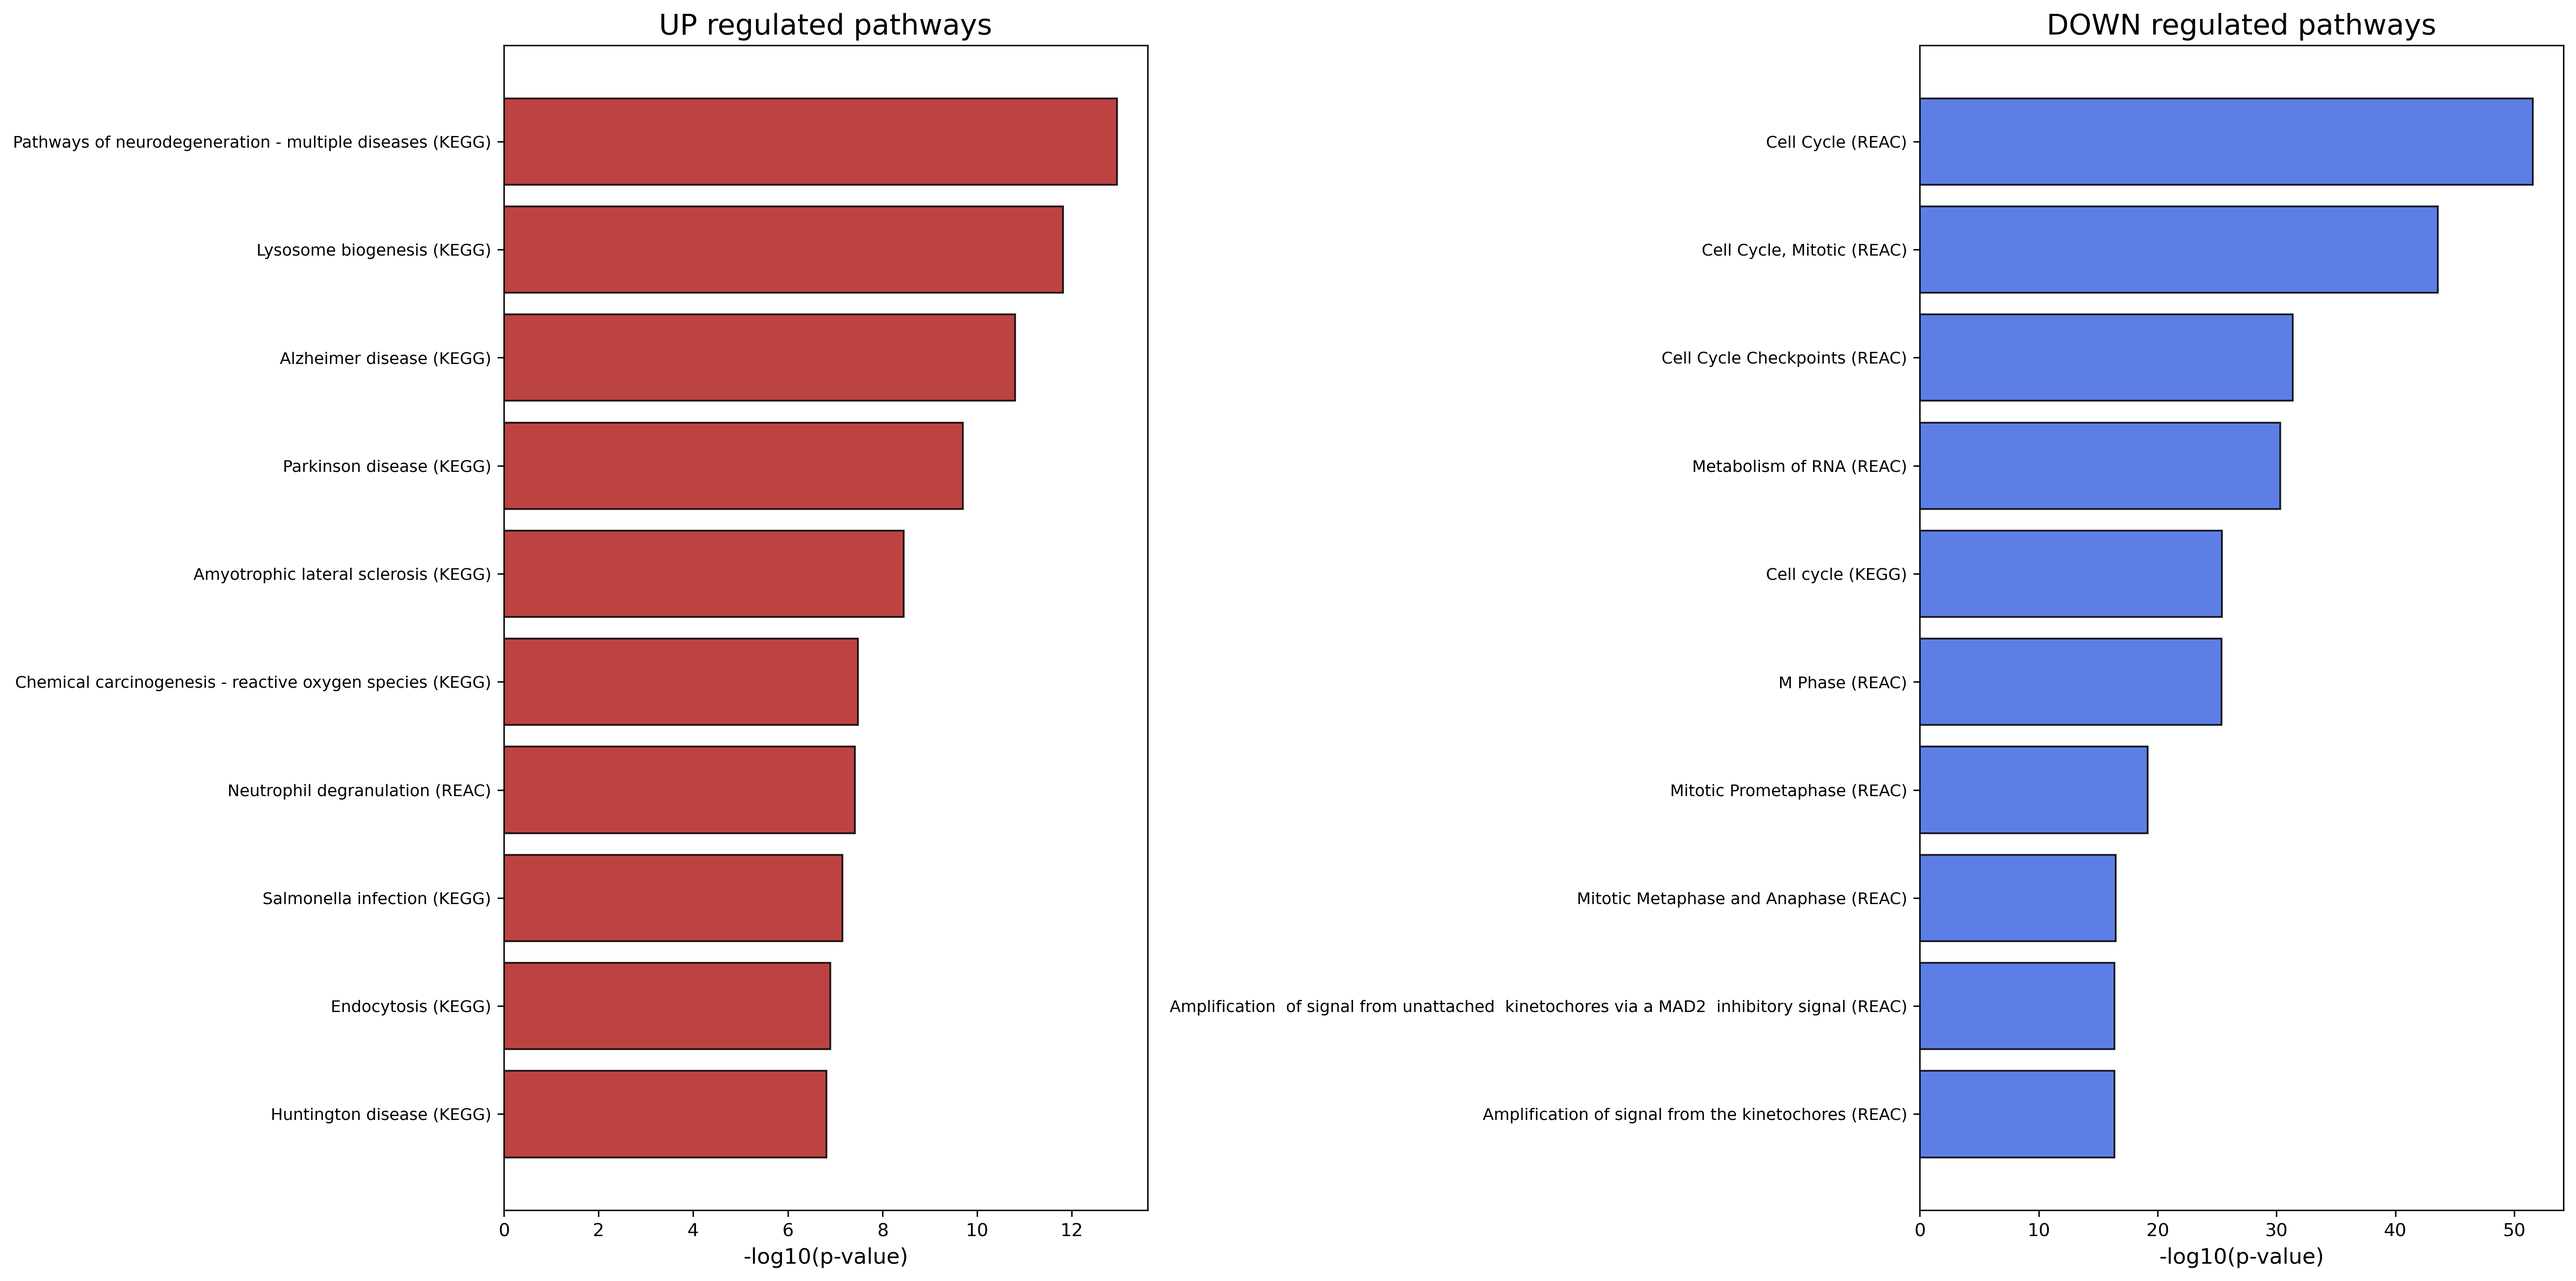
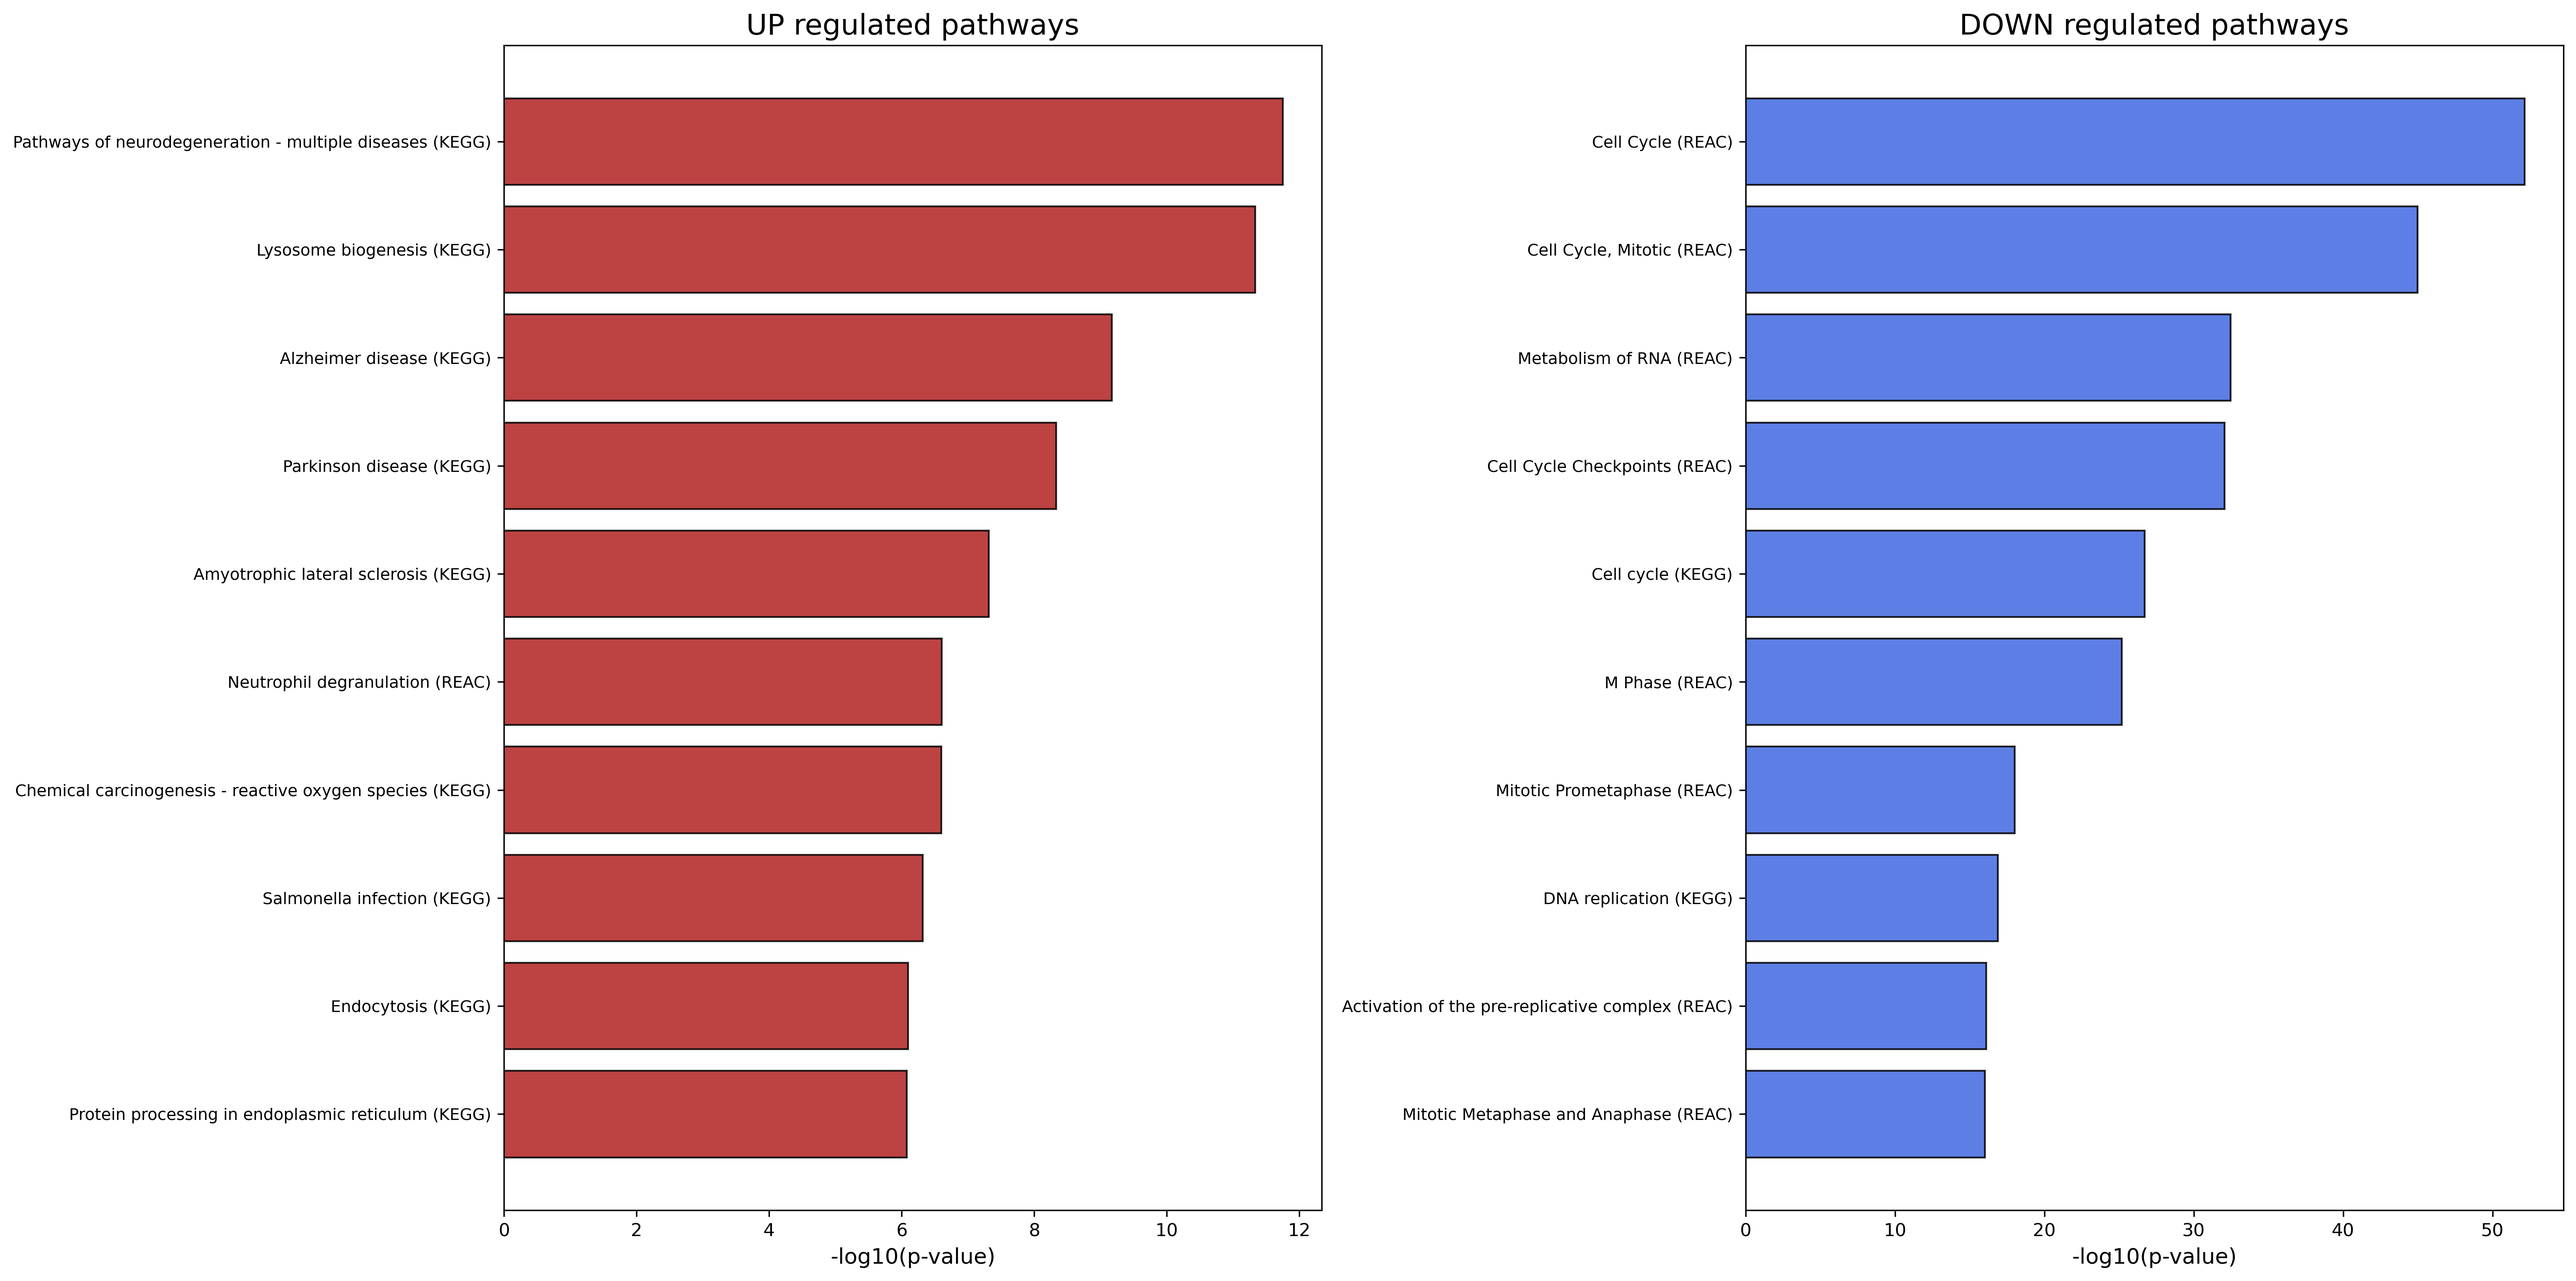
Update pathways for all samples after decontamination

diff --git a/README.md b/README.md
@@ -541,7 +541,7 @@ Here, we followed the same approach we did in Osteosarcoma for dge, but we compa
 
 We performed differential gene expression (DGE) analysis to identify genes differentially expressed across cell types. For each cell type, we applied a Wilcoxon rank-sum test using Scanpy’s rank_genes_groups function with celltype as the grouping variable, comparing each cell type against all remaining cells (one-vs-rest approach). We extracted log fold-changes and adjusted p-values for each comparison, and filtered results using an adjusted p-value threshold of 0.05 to retain statistically significant genes. For downstream visualisation, we selected the top 10 upregulated and top 10 downregulated genes per cell type (--N 10), ranking genes primarily by adjusted p-value with log fold-change used as a secondary criterion within each direction. The final results were visualised in a heatmap displaying log fold-changes of the selected genes across all cell types.
 
-### N=5 per celltype 
+### Here, we used N=5 per celltype 
 
 ![](figures/axt_celltype_heatmap.png?v=11)
 
@@ -553,11 +553,6 @@ This pipeline identifies potential **ligand–receptor interactions** from singl
 #### Top lrScores interactions with minimum |logFC| 0.0 (Mostly rank by lrScore)
 
 ![](figures/axt_liana_dotplot.png?=6)
-
-
-#### Click the link below for full list of cell-cell interactions
-
-[Download here cell to cell interactions](https://drive.google.com/file/d/16D9fNklX820b8p9aXMq-Yr8vVWbLPOqV/view?usp=sharing) 
 
 ### Ligand–receptor inference (LIANA)
 The script runs `liana.mt.rank_aggregate`, which integrates multiple tools:
@@ -641,14 +636,14 @@ Cosine similarity = 1 (if all genes scaled equally) → Tells you nothing about 
 We performed over‑representation enrichment analysis using g:Profiler similar to what we did in Osteosarcoma 
 
 #### GO
-![](figures/axt_GO_enrichment.png?v=1)
+![](figures/axt_GO_enrichment.png?v=2)
 
 #### KEGG, REAC, WP
 
-![](figures/axt_KEGG,REAC,WP_enrichment.png?v=1)
+![](figures/axt_KEGG,REAC,WP_enrichment.png?v=2)
 
 #### CORUM
-![](figures/axt_CORUM_enrichment.png?v=1)
+![](figures/axt_CORUM_enrichment.png?v=2)
 
 
 ## MORE ANALYSIS ON THE WAY 
